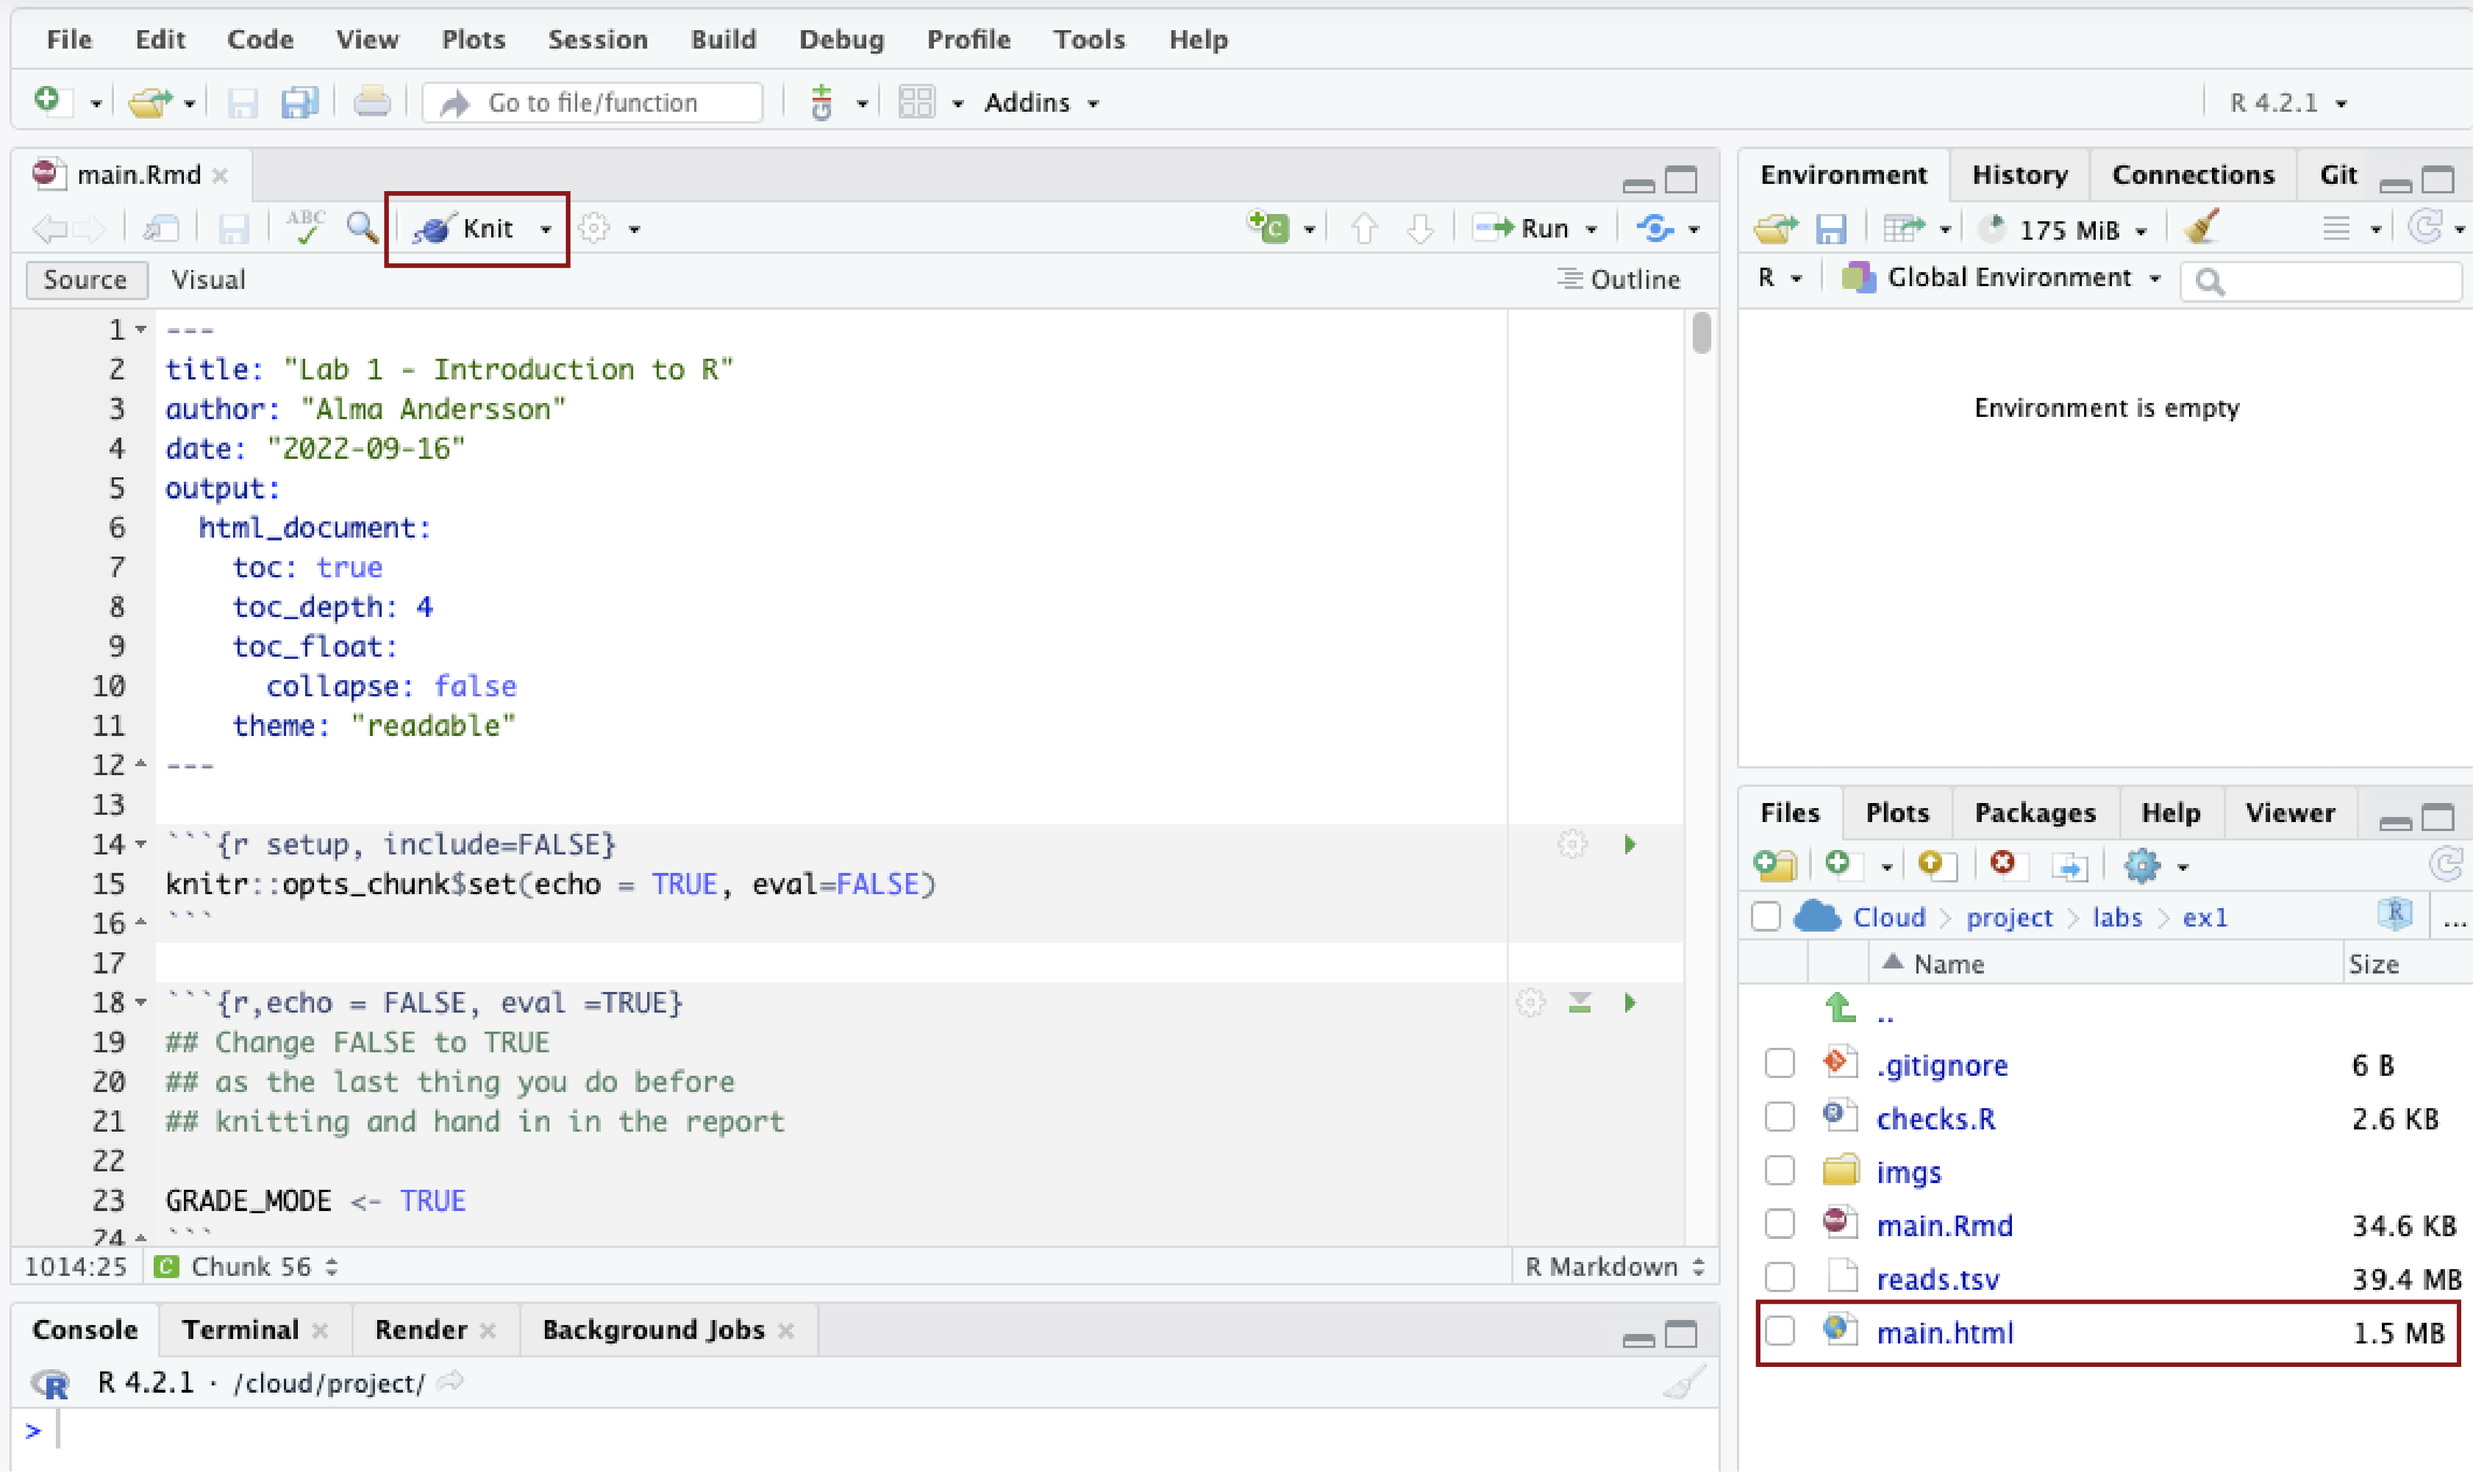
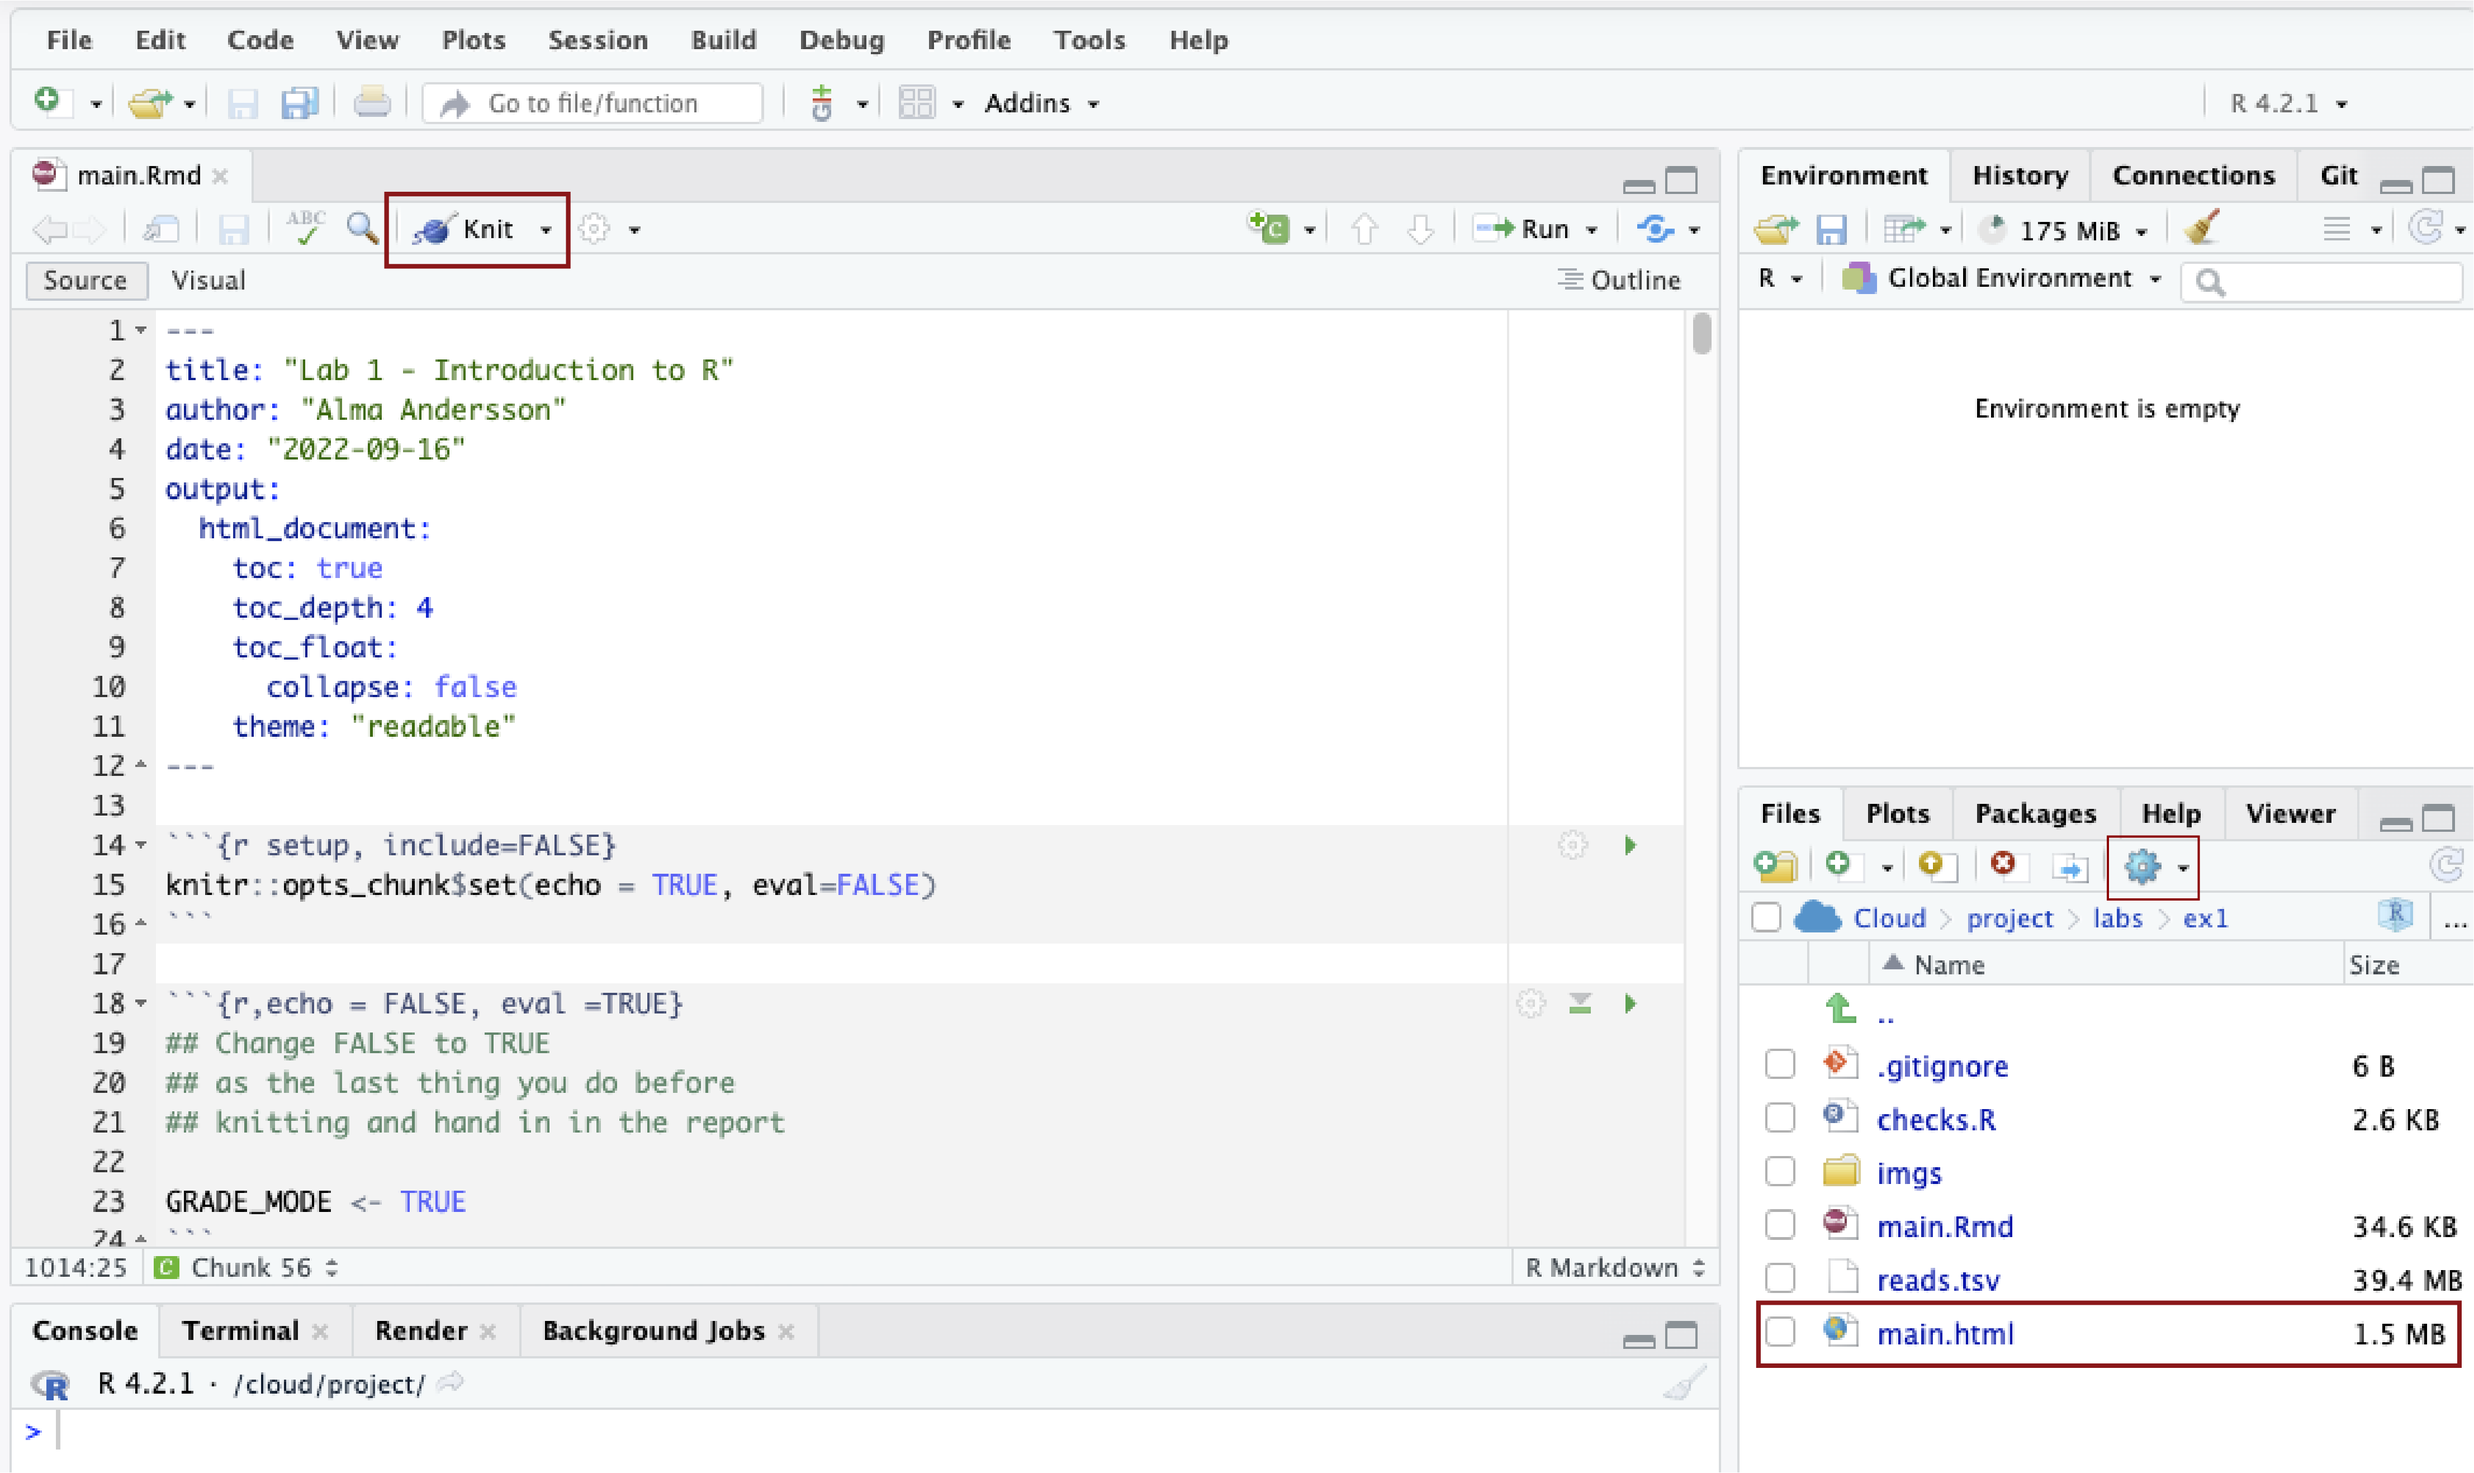
Updated README for master branch

diff --git a/README.md b/README.md
@@ -68,12 +68,21 @@ executing code in the console.
 
 ## Handing in reports
 
+Before you proceed, please make sure that you are not printing the content of any large objects. 
+For example, do not print the content of expression matrices as tis will fill up the notebook:
+
+````
+# DO NOT DO THIS
+print(counts)
+````
+
 When you have written your answers in the rmarkdown document, you need to "knit" the document into an HTML 
 file. First, you click on the Knit button and choose "Knit to HTML" which will trigger the knitting process. 
-When the process has finished, you should see a file called "main.html" in the file explorer. To download 
-this file, you can click on it and select "View in Web Browser" which will open up a new tab in your browser.
-Then you right click on the page and save the webpage as a .html file on your own system. This is the file that
-you will upload on Canvas! Just make sure that you can open the file and that you can see the content of it before 
+When the process has finished, you should see a file called "main.html" in the file explorer. 
+
+To download this file, you can check the box next to it, press the cog wheel icon above and select Export... 
+Now you can chose a file name and download the file to your computer. This is the file that you will upload 
+on Canvas! Just make sure that you can open the file and that you can see the content of it before 
 uploading.
 
 ![knitr](imgs/knit.png)
